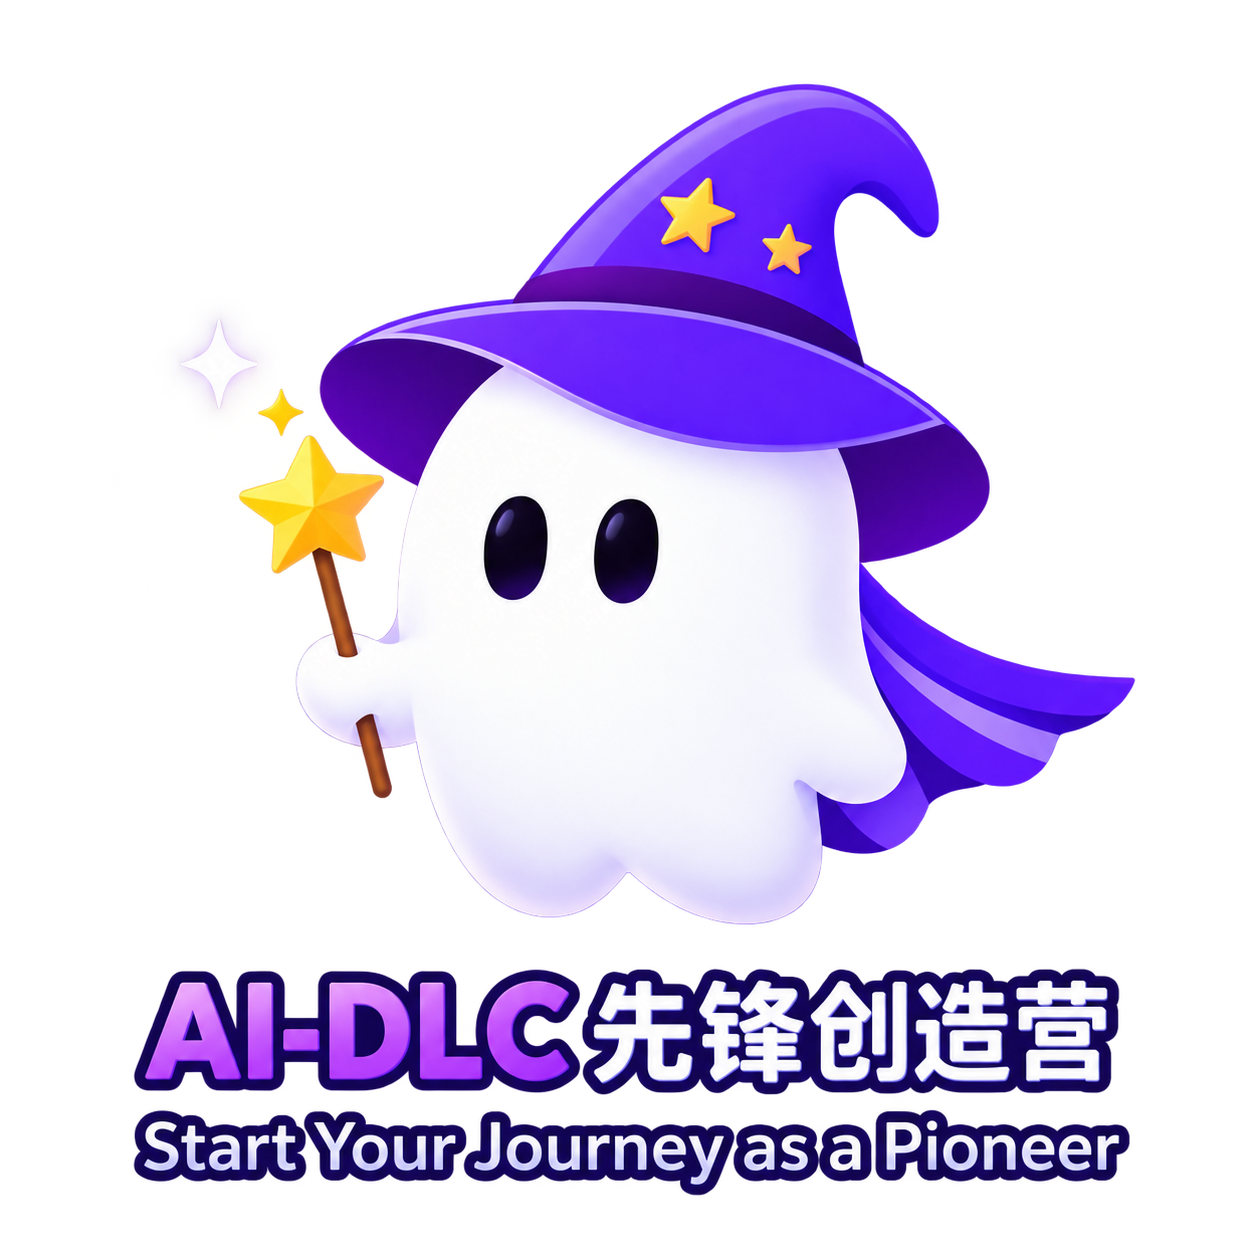
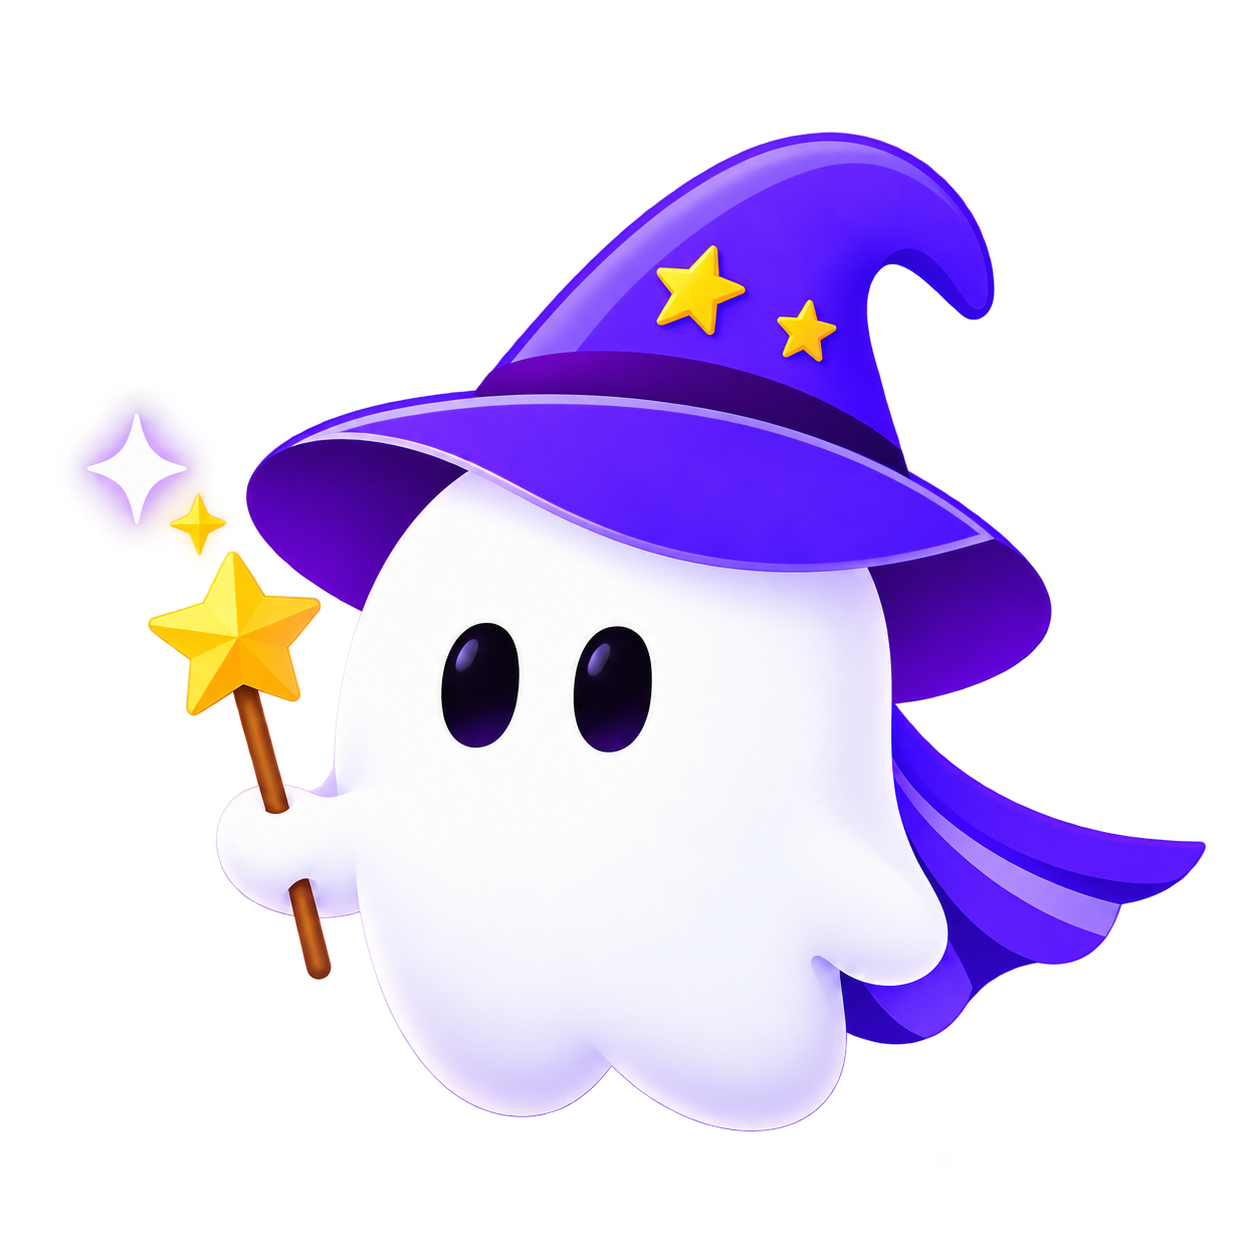
feat(web): 首页幽灵 emoji 替换为吉祥物图与 AI-DLC 品牌名

diff --git a/web_demo.py b/web_demo.py
@@ -1,11 +1,16 @@
-import csv, json, threading, uuid
+import csv
+import json
+import re
+import threading
+import uuid
 from pathlib import Path
-from openai import OpenAI
-from qdrant_client import QdrantClient
+
 from fastapi import FastAPI
 from fastapi.responses import HTMLResponse
 from fastapi.staticfiles import StaticFiles
+from openai import OpenAI
 from pydantic import BaseModel
+from qdrant_client import QdrantClient
 from strands import Agent, tool
 from strands.models.openai import OpenAIModel
 
@@ -52,8 +57,15 @@ class ChatRequest(BaseModel):
 app = FastAPI(title='AWS 客服 Agent')
 app.mount('/assets', StaticFiles(directory=str(ROOT / 'assets')), name='assets')
 HTML = (ROOT / 'index.html').read_text(encoding='utf-8')
-HTML = HTML.replace('<div class="ghost">👻</div>', '<img src="/assets/ai-dlc-mascot.png" alt="AI-DLC 先锋创造营">')
+HTML = re.sub(
+    r'<div class="mascot">.*?</div></aside>',
+    '<div class="mascot"><img src="/assets/ai-dlc-mascot.png" alt="AI-DLC 先锋创造营"><div class="brand-cn">AI-DLC 先锋创造营</div><div class="brand-en">Start Your Journey as a Pioneer</div></div></aside>',
+    HTML,
+    count=1,
+    flags=re.DOTALL,
+)
 HTML = HTML.replace('.ghost{font-size:90px;filter:drop-shadow(0 0 18px #7d43ff);margin-bottom:8px}', '.mascot img{display:block;width:205px;max-width:100%;height:auto;margin:0 auto;filter:drop-shadow(0 0 18px #7d43ff)}')
+HTML = HTML.replace('</style>', '.brand-cn{color:#a45cff;font-size:16px;font-weight:800;margin-top:4px}.brand-en{color:#aeb0c9;font-size:11px;margin-top:5px}</style>')
 
 @app.get('/', response_class=HTMLResponse)
 def home():
